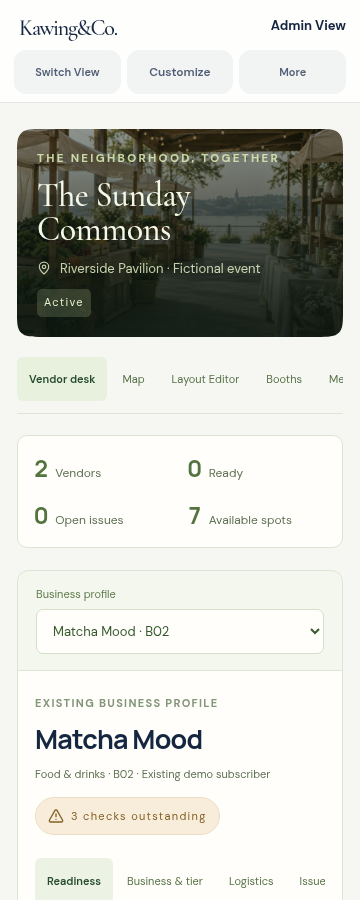
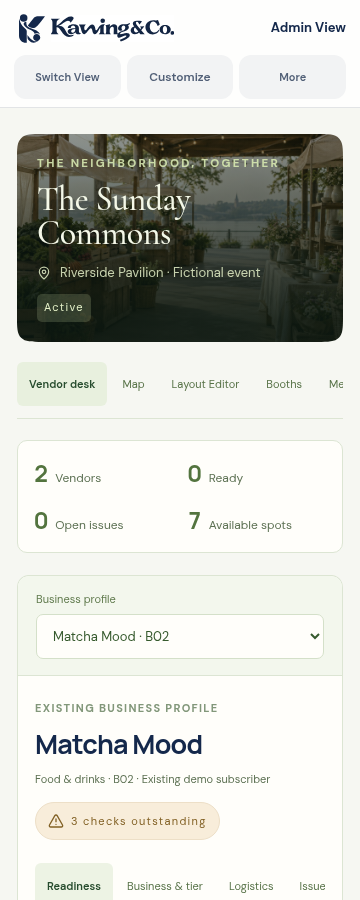
Integrate supplied Kawing identity and responsive microinteractions

diff --git a/src/ds/mobile-demo.css b/src/ds/mobile-demo.css
@@ -6,10 +6,10 @@ html body .entry-mobile-first .spaces-brand { justify-content: space-between; bo
 .demo-introduction h1 { font: 500 clamp(48px, 6vw, 80px)/1.02 var(--k-serif); letter-spacing: -.03em; color: var(--k-ink); margin: 20px 0; text-wrap: balance; }
 .demo-introduction h1 em { font-weight: 400; color: #365579; }
 .demo-introduction-copy > p { color: var(--k-ink-2); font-size: 17px; line-height: 1.7; max-width: 470px; }
-.demo-start { min-height: 52px; display: inline-flex; align-items: center; justify-content: center; gap: 22px; border-radius: 14px; padding: 14px 22px; background: #152641; color: white; font-weight: 600; font-size: 15px; margin: 16px 0; border: 1px solid #152641; }
+.demo-start { min-height: 52px; display: inline-flex; align-items: center; justify-content: center; gap: 22px; border-radius: 14px; padding: 14px 22px; background: #14284b; color: white; font-weight: 600; font-size: 15px; margin: 16px 0; border: 1px solid #14284b; }
 .demo-start:hover { background: #2f4868; }
 .demo-introduction-copy > small { display: block; font-size: 12px; line-height: 1.7; color: var(--k-ink-2); }
-.demo-purpose-card { padding: clamp(24px, 3vw, 40px); background: #152641; color: #fff; border-radius: 24px; }
+.demo-purpose-card { padding: clamp(24px, 3vw, 40px); background: #14284b; color: #fff; border-radius: 24px; }
 .demo-purpose-card .demo-eyebrow { color: #bdcce0; }
 .demo-purpose-card h2 { font: 500 42px/1.05 var(--k-serif); margin: 18px 0 28px; }
 .demo-purpose-card ol { list-style: none; padding: 0; margin: 0; display: grid; gap: 22px; }
@@ -86,12 +86,67 @@ html body .view-picker .back-preview { display: inline-flex; }
   html body .space-session-header nav > button,
   html body .space-session-header nav > .session-disclosure > button { width: 100%; min-height: 44px; justify-content: center; }
 }
-html body .view-picker .space-role-icon { color: #152641; background: #edf1f7; }
-html body .view-picker .space-enter { color: #152641; }
+html body .view-picker .space-role-icon { color: #14284b; background: #edf1f7; }
+html body .view-picker .space-enter { color: #14284b; }
 .demo-purpose-card > .company-wordmark { display: block; color: white; font: 700 38px/1.2 var(--k-serif); letter-spacing: -1px; margin-bottom: 18px; }
 /* Kawing & Co. company surfaces; merchant storefront themes stay in their own scope. */
 html body .entry-mobile-first { background: #fff; }
 body:has(.entry-mobile-first) { background: #fff; }
-html body .sidebar nav button.active::before { background: #152641; }
+html body .sidebar nav button.active::before { background: #14284b; }
 html body .studio-heading .button.primary,
-html body .studio-save-bar .button.primary { background: #152641; border-color: #152641; color: #fff; }
+html body .studio-save-bar .button.primary { background: #14284b; border-color: #14284b; color: #fff; }
+
+/* Supplied vector identity: one untouched source for the wordmark and stacked mark. */
+html body .spaces-brand > a > .company-wordmark.company-mark-compact,
+html body .space-wordmark > .company-wordmark.company-mark-compact,
+html body .sidebar .logo > .company-wordmark.company-mark-compact {
+  display: inline-flex; align-items: center; gap: 8px; width: 176px; height: 36px;
+  color: #14284b; padding: 0; line-height: 1; vertical-align: middle;
+}
+.company-wordmark .brand-name { position: absolute; width: 1px; height: 1px; padding: 0; margin: -1px; overflow: hidden; clip-path: inset(50%); white-space: nowrap; }
+.company-wordmark .brand-symbol { display: block; width: 26px; height: 31px; flex: none; background: currentColor; -webkit-mask: url('/branding/kawing-symbol.svg') center / contain no-repeat; mask: url('/branding/kawing-symbol.svg') center / contain no-repeat; }
+.company-wordmark .brand-wordmark { display: block; width: 142px; height: 31px; flex: none; background: currentColor; -webkit-mask: url('/branding/kawing-stacked.svg') center bottom / 100% auto no-repeat; mask: url('/branding/kawing-stacked.svg') center bottom / 100% auto no-repeat; }
+html body .demo-purpose-card > .company-wordmark.company-mark-stacked { display: block; width: 176px; height: 174px; color: white; margin: 0 0 24px; }
+.company-wordmark .brand-stacked { display: block; width: 100%; height: 100%; background: currentColor; -webkit-mask: url('/branding/kawing-stacked.svg') center / contain no-repeat; mask: url('/branding/kawing-stacked.svg') center / contain no-repeat; }
+@media (max-width: 380px) {
+  html body .space-wordmark > .company-wordmark.company-mark-compact { width: 155px; gap: 6px; }
+  .space-wordmark .brand-wordmark { width: 123px; height: 27px; }
+}
+/* Native SVG wordmark variants, clipped only in layout; original files are untouched. */
+.company-wordmark .brand-wordmark { position: relative; overflow: hidden; background: transparent; -webkit-mask: none; mask: none; }
+.company-wordmark .wordmark-art { display: block; position: absolute; top: 50%; max-width: none; height: auto; pointer-events: none; user-select: none; }
+.company-wordmark .art-depth { opacity: 0; transition: opacity 220ms ease; }
+a:is(:hover, :focus-visible) .company-wordmark .art-depth { opacity: 1; }
+.company-mark-compact .brand-wordmark { mix-blend-mode: multiply; }
+html body .company-wordmark.company-mark-reversed { display: inline-block; width: 158px; height: 33px; margin: 0; vertical-align: middle; }
+.company-mark-reversed .brand-reversed { width: 100%; height: 100%; }
+html body .entry-mobile-first .spaces-footer { background: #0f1d37; color: #d0dbea; padding: 20px 24px; border: 0; border-radius: 18px; gap: 20px; align-items: center; }
+html body .entry-mobile-first .spaces-footer > .company-wordmark { display: inline-block; }
+/* Motion is reactive: one hover/focus/press response, no idle logo loop. */
+.company-wordmark { transform: translate3d(var(--logo-x, 0px), var(--logo-y, 0px), 0); transition: transform 260ms cubic-bezier(.22,.8,.25,1); }
+.company-wordmark .brand-symbol { transform-origin: 50% 70%; transition: transform 260ms cubic-bezier(.22,.8,.25,1); }
+a:is(:hover, :focus-visible) .brand-symbol { transform: rotate(-4deg) translateY(-1px); }
+a:active .company-wordmark { transform: scale(.97); }
+html body .entry-mobile-first .k-tactile { background-image: radial-gradient(150px circle at var(--lx, 50%) var(--ly, 50%), rgba(255,255,255,calc(.32 * var(--lg,0))), transparent 65%); }
+.demo-start > svg { transition: transform 220ms ease; }
+.demo-start:is(:hover, :focus-visible) > svg { transform: translateX(4px); }
+:where(button, a.button) { touch-action: manipulation; }
+html body .entry-mobile-first .space-role-cards > button,
+html body .entry-mobile-first .business-picker button,
+html body .space-session-header nav button { transition: background-color 180ms ease, border-color 180ms ease, color 180ms ease, transform 180ms cubic-bezier(.22,.8,.25,1), box-shadow 180ms ease; }
+html body .entry-mobile-first .space-role-cards > button:active,
+html body .entry-mobile-first .business-picker button:active,
+html body .space-session-header nav button:active { transform: scale(.98); }
+html body .entry-mobile-first .space-role-cards > button:is(:hover, :focus-visible) .space-enter > svg { transform: translateX(4px); }
+.space-enter > svg { transition: transform 200ms ease; }
+:where(button[role="tab"], button[role="radio"]) { transition: background-color 180ms ease, color 180ms ease, box-shadow 180ms ease; }
+.cx-success, .sf-notice { animation: demo-confirm 240ms cubic-bezier(.22,.8,.25,1) both; }
+@keyframes demo-confirm { from { opacity: 0; transform: translateY(6px); } to { opacity: 1; transform: translateY(0); } }
+@media (max-width: 750px) { html body .entry-mobile-first .spaces-footer > .company-wordmark { margin-top: 16px; } }
+@media (prefers-reduced-motion: reduce) {
+  .company-wordmark, .company-wordmark .brand-symbol, a:active .company-wordmark,
+  .demo-start:is(:hover, :focus-visible) > svg,
+  html body .entry-mobile-first .space-role-cards > button:is(:hover, :focus-visible) .space-enter > svg { transform: none !important; transition: none !important; }
+  .company-wordmark .art-depth { transition: none; }
+  .cx-success, .sf-notice { animation: none; }
+}

diff --git a/tests/branding-motion.spec.js b/tests/branding-motion.spec.js
@@ -1,0 +1,56 @@
+import {test, expect} from '@playwright/test';
+
+test('supplied brand SVGs are served and the compact wordmark loads as artwork', async ({page}) => {
+  for(const asset of ['stacked','symbol','wordmark-flat','wordmark-depth','wordmark-reversed']) {
+    const r=await page.request.get('/branding/kawing-'+asset+'.svg');
+    expect(r.ok()).toBe(true);
+    expect(await r.text()).toContain('<svg');
+  }
+  await page.goto('/');
+  const logo=page.locator('.spaces-brand a');
+  await expect(logo.getByRole('img',{name:'Kawing & Co.'})).toBeVisible();
+  const art=logo.locator('img.art-flat');
+  await expect.poll(()=>art.evaluate(e=>e.complete && e.naturalWidth>0)).toBe(true);
+  expect(await page.locator('link[rel=icon]').getAttribute('href')).toBe('/branding/kawing-symbol.svg');
+  await expect(page.locator('.brand-stacked')).toBeVisible();
+  await expect(page.locator('.company-mark-reversed img')).toHaveAttribute('src','/branding/kawing-wordmark-reversed.svg');
+});
+
+test('logo hover reveals the supplied depth variant and keyboard navigation still works', async ({page}) => {
+  await page.goto('/');
+  const logo=page.locator('.spaces-brand a');
+  await logo.hover();
+  await expect.poll(()=>logo.locator('.art-depth').evaluate(e=>Number(getComputedStyle(e).opacity))).toBe(1);
+  await page.mouse.move(0,0);
+  await expect.poll(()=>logo.locator('.art-depth').evaluate(e=>Number(getComputedStyle(e).opacity))).toBe(0);
+  await page.goto('/?scenario=standard');
+  await page.locator('.spaces-brand a').focus();
+  await page.keyboard.press('Enter');
+  await expect(page.locator('.demo-introduction')).toBeVisible();
+});
+
+test('button press gives immediate feedback and keeps the experience action functional', async ({page}) => {
+  await page.goto('/');
+  const button=page.getByRole('button',{name:'Choose your experience',exact:true});
+  const box=await button.boundingBox();
+  await page.mouse.move(box.x+box.width/2,box.y+box.height/2);
+  await page.mouse.down();
+  await expect(button).toHaveClass(/k-pressed/);
+  await page.mouse.up();
+  await expect(button).not.toHaveClass(/k-pressed/);
+  await expect(page.locator('#experience-choices')).toBeFocused();
+  await page.getByRole('button',{name:/Explore a business/}).click();
+  await expect(page.getByRole('heading',{name:'Choose your view.'})).toBeVisible();
+});
+
+test('reduced motion disables logo movement and confirmations while actions remain usable', async ({page}) => {
+  await page.emulateMedia({reducedMotion:'reduce'});
+  await page.goto('/');
+  const logo=page.locator('.spaces-brand a');
+  await logo.hover();
+  expect(await logo.locator('.company-wordmark').evaluate(e=>getComputedStyle(e).transform)).toBe('none');
+  expect(await logo.locator('.brand-symbol').evaluate(e=>getComputedStyle(e).transform)).toBe('none');
+  await page.getByRole('button',{name:'Choose your experience',exact:true}).click();
+  await expect(page.locator('#experience-choices')).toBeFocused();
+  expect(await page.getByRole('button',{name:'Choose your experience',exact:true}).evaluate(e=>getComputedStyle(e).transform)).toBe('none');
+});

diff --git a/src/CompanyWordmark.jsx b/src/CompanyWordmark.jsx
@@ -1,5 +1,35 @@
 import React from "react";
-// Text fallback until the owner's original logo artwork is available as a file.
-export default function CompanyWordmark() {
-  return <span className="company-wordmark">Kawing<span>&amp;Co.</span></span>;
+
+// Display the original SVGs without rewriting their paths or artboards. The crop
+// geometry was measured from the SVG path bounds in the browser's own coordinates.
+const art = {
+  flat: { width: '128.64%', left: '-14.28%', center: '-50.91%' },
+  depth: { width: '107.32%', left: '-4.62%', center: '-48.79%' },
+  reversed: { width: '134.2%', left: '-17.15%', center: '-51.72%' },
+};
+function WordmarkArt({ tone }) {
+  const crop = art[tone];
+  return <img className={'wordmark-art art-' + tone} src={'/branding/kawing-wordmark-' + tone + '.svg'} alt="" draggable="false" style={{width:crop.width, left:crop.left, transform:'translateY(' + crop.center + ')'}} />;
+}
+export default function CompanyWordmark({ variant = "compact" }) {
+  const reset = (e) => {
+    e.currentTarget.style.removeProperty('--logo-x');
+    e.currentTarget.style.removeProperty('--logo-y');
+  };
+  return (
+    <span className={'company-wordmark company-mark-' + variant} role="img" aria-label="Kawing & Co."
+      onPointerMove={(e) => {
+        if (e.pointerType !== 'mouse' || !matchMedia('(pointer:fine)').matches || matchMedia('(prefers-reduced-motion: reduce)').matches) return;
+        const r = e.currentTarget.getBoundingClientRect();
+        e.currentTarget.style.setProperty('--logo-x', ((e.clientX-r.left)/r.width-.5)*2 + 'px');
+        e.currentTarget.style.setProperty('--logo-y', ((e.clientY-r.top)/r.height-.5)*1.5 + 'px');
+      }} onPointerLeave={reset} onPointerCancel={reset}>
+      {variant === 'stacked' ? <span className="brand-stacked" aria-hidden="true" /> : variant === 'reversed' ?
+        <span className="brand-wordmark brand-reversed" aria-hidden="true"><WordmarkArt tone="reversed" /></span> : <>
+          <span className="brand-symbol" aria-hidden="true" />
+          <span className="brand-wordmark" aria-hidden="true"><WordmarkArt tone="flat" /><WordmarkArt tone="depth" /></span>
+        </>}
+      <span className="brand-name">Kawing&amp;Co.</span>
+    </span>
+  );
 }

diff --git a/src/Spaces.jsx b/src/Spaces.jsx
@@ -235,7 +235,7 @@ export default function Spaces({ Workspace }) {
               <span className="demo-eyebrow">THE KAWING &amp; CO. PRODUCT DEMO</span>
               <h1 id="demo-title">Good business.<br /><em>Closer connections.</em></h1>
               <p>See how one customer visit connects a branded menu, an order, the team behind it, and a reason to return.</p>
-              <button className="demo-start" onClick={() => {
+              <button className="demo-start" data-tactile onClick={() => {
                 const heading = document.getElementById("experience-choices");
                 heading?.scrollIntoView({ behavior: matchMedia("(prefers-reduced-motion: reduce)").matches ? "instant" : "smooth", block: "start" });
                 heading?.focus({ preventScroll: true });
@@ -243,7 +243,7 @@ export default function Spaces({ Workspace }) {
               <small>Interactive proposal · Fictional businesses · No real payments</small>
             </div>
             <div className="demo-purpose-card">
-              <CompanyWordmark /><span className="demo-eyebrow">MORE THAN A DIGITAL MENU</span>
+              <CompanyWordmark variant="stacked" /><span className="demo-eyebrow">MORE THAN A DIGITAL MENU</span>
               <h2>One visit.<br />Everyone connected.</h2>
               <ol>
                 <li><span>01</span><div><b>Arrive &amp; order</b><p>A guest explores the menu, places an order, and follows its progress.</p></div></li>
@@ -379,7 +379,7 @@ export default function Spaces({ Workspace }) {
             <span className="online-dot" /> Interactive demo · Fictional
             businesses · Browser-local data
           </span>
-          <span>Good business, connected.</span>
+          <CompanyWordmark variant="reversed" />
         </footer>
       </main>
     </>

diff --git a/src/ds/shell.css b/src/ds/shell.css
@@ -136,7 +136,7 @@ html body .space-session-header .session-context { flex-wrap: nowrap; white-spac
 @media (max-width: 1500px) { html body .space-session-header .session-context .session-tier, html body .space-session-header .session-context .session-tier + span { display: none; } }
 @media (max-width: 1500px) { html body .space-session-header .command-trigger kbd { display: none; } }
 
-/* Company-name fallback; replace with the supplied artwork once originals arrive. */
+/* Company mark frame; the SVG renderer in mobile-demo.css supplies final sizing. */
 html body .spaces-brand > a > .company-wordmark,
 html body .space-wordmark > .company-wordmark,
 html body .sidebar .logo > .company-wordmark {

diff --git a/index.html b/index.html
@@ -6,8 +6,8 @@
       name="viewport"
       content="width=device-width, initial-scale=1.0, viewport-fit=cover"
     />
-    <link rel="icon" type="image/svg+xml" href="/images/market-mark.svg" />
-    <meta name="theme-color" content="#152641" />
+    <link rel="icon" type="image/svg+xml" href="/branding/kawing-symbol.svg" />
+    <meta name="theme-color" content="#14284b" />
     <meta
       name="description"
       content="Kawing — a connected workspace for your neighborhood restaurant. Interactive concept demo."

diff --git a/src/ds/tokens.css b/src/ds/tokens.css
@@ -9,9 +9,9 @@
   /* colour */
   --k-paper: #ffffff;
   --k-surface: #ffffff;
-  --k-ink: #152641;
+  --k-ink: #14284b;
   --k-ink-2: #526077;          /* muted text on the company surface */
-  --k-forest: #152641;
+  --k-forest: #14284b;
   --k-forest-2: #304d72;
   --k-sage: #edf1f7;
   --k-sage-2: #dce4ef;

diff --git a/docs/MOBILE_DEMO_VERIFICATION.md b/docs/MOBILE_DEMO_VERIFICATION.md
@@ -13,7 +13,7 @@ removal while preserving undo and existing connected operations.
 ## Checks
 
 - Production build passed. Vite retains its pre-existing >500KB main-chunk advisory.
-- Full 94-test Playwright regression: 94 passed in 5.3 minutes.
+- Full 94-test Playwright regression before final brand-asset integration: 94 passed in 5.3 minutes.
 - Focused mobile/merchant run: 14 passed before adding separate tablet coverage.
 - Chromium compiled-preview sweep: 24 route/width combinations (360/390/768/1440px),
   no page or console errors, no horizontal page overflow, no command trigger/dialog,
@@ -34,10 +34,20 @@ successful build and focused run; no broken intermediate build was published.
 
 Chromium desktop/touch-sized checks are not physical iOS/Android or screen-reader
 certification. All operational records remain fictional and browser-local. The
-company-name text fallback is not the supplied original logo; exact PNG/SVG originals
-are still pending. Merchant theme identities remain independent of company chrome.
+original supplied SVGs are now used directly (no text fallback); five source files are preserved byte-for-byte. Merchant theme identities remain independent of company chrome.
 
 Publish only the exact local commit pushed to the existing Site source repository.
 Retain the public audience. Report actual saved version, commit and deployment result
 in completion; record local release reconciliation in .git/kawing-brand-release.json.
 Rollback: saved Site version 10, with no data migration required.
+
+## Supplied assets and microinteractions
+
+The owner subsequently supplied five original SVG files and requested more responsive
+interaction. Native SVG artwork replaces the company-name fallback. Brand feedback is
+reactive: depth variant on hover/focus, bounded pointer response, small symbol rotation,
+press compression and reset. Buttons, cards and confirmations have subtle functional
+feedback. No idle brand animation, motion engine dependency or payment-state change.
+Reduced-motion preferences disable movement. Four new tests cover asset availability,
+logo/focus behavior, tactile press/action, and reduced motion. Focused final verification
+with logo, mobile/session, merchant and connected-order cases: 36 passed (1.5 minutes). Final build and 24-case compiled-preview sweep passed after SVG/motion integration.

diff --git a/.codex/CURRENT.md b/.codex/CURRENT.md
@@ -18,5 +18,5 @@ keyboard path and back navigation; no horizontal page overflow. Validate product
 build, relevant and full browser regression, compiled mobile/desktop screenshots,
 console, complete diff, existing public Site deployment and served assets.
 
-Latest owner steering: apply Kawing & Co. logo, colors and theme. Company landing and chrome use navy/white; merchant storefront themes remain independent. Exact original logo files remain unavailable: retain honest company-name fallback; do not claim exact artwork is integrated.
-Verification: production build passed; 94 Playwright checks passed (5.3m); compiled-preview 24-case sweep at 360/390/768/1440px had no console errors or page overflow. Six screenshots and docs/MOBILE_DEMO_VERIFICATION.md retained. Rollback: Site version 10 / starting commit above. Next: publish this local commit to the existing public Site; keep GitHub push pending. Reconcile actual release state in .git/kawing-brand-release.json and the Site before retrying publication.
+Latest owner steering: apply Kawing & Co. logo, colors and theme. Company landing and chrome use navy/white; merchant storefront themes remain independent. Owner supplied five original SVGs. Integrate stacked logo, symbol, flat/depth/reversed wordmarks directly; preserve originals. Additional accepted scope: reactive microinteractions for logo, buttons, cards and confirmations; honor reduced motion and preserve transactions.
+Verification: production build passed; 94 Playwright checks passed for the mobile overhaul (5.3m); after actual SVG and motion integration, 36 relevant logo/mobile/session/merchant/order checks passed (1.5m); compiled-preview 24-case sweep at 360/390/768/1440px had no console errors or page overflow. Six screenshots and docs/MOBILE_DEMO_VERIFICATION.md retained. Rollback: Site version 10 / starting commit above. Next: publish this local commit to the existing public Site; keep GitHub push pending. Reconcile actual release state in .git/kawing-brand-release.json and the Site before retrying publication.

diff --git a/docs/ASSETS.md b/docs/ASSETS.md
@@ -41,3 +41,19 @@ dependency; hashes are regenerated with `node scripts/create-image-hashes.mjs`.
 
 3D reference provenance and rights boundaries: [3D_REFERENCE_REVIEW.md](3D_REFERENCE_REVIEW.md).
 No assets or source from the supplied interactive portfolio are redistributed.
+
+
+Company identity (owner supplied, 2026-11-07): the five SVGs in public/branding/
+are preserved byte-for-byte, including their source comments. Stacked mark and
+symbol are alpha-masked in CSS for navy/white display. Flat, depth and reversed
+wordmarks retain their original artboards; CSS clips the display to measured glyph
+bounds. No font substitution, traced replacement, external asset request or generated
+logo is used. The symbol is also the favicon. Source filenames were the supplied
+stacked-logo, symbol-concept-b, blended-wordmark-depth, Flat-single-color-wordmark
+and White-wordmark-on-dark artifacts. SHA-256:
+
[5 lines of base64/hex data omitted]

diff --git a/CHANGELOG.md b/CHANGELOG.md
@@ -1,5 +1,16 @@
 # Changelog
 
+## 2026-11-07 — Supplied vector identity and reactive motion
+
+- Replaced the company-name fallback with the supplied SVG symbol, stacked mark and
+  flat/depth/reversed wordmarks. All five originals are retained byte-for-byte.
+  Native SVG rendering/CSS cropping preserve the artwork; no replacement font or tracing.
+- Added bounded logo response, depth artwork on hover/focus, tactile entry action,
+  press feedback on cards/controls, and short confirmation transitions. No idle loop;
+  reduced motion removes movement. Company navy/white and merchant themes stay separate.
+- Added four asset/motion checks. Final focused set: 36 passed; full mobile overhaul
+  baseline: 94 passed. Compiled preview 24-case sweep passed; screenshots updated.
+
 ## 2026-11-07 — Mobile demo journey
 
 - Added a branded proposal introduction explaining customer, merchant and admin

diff --git a/docs/MOBILE_DEMO_GUIDE.md b/docs/MOBILE_DEMO_GUIDE.md
@@ -33,8 +33,9 @@ deep links, guest ordering and Studio previews remain available.
 - Merchant identities are independent of the navy/white company presentation.
 - Reduced motion keeps the same content and navigation without animated transitions.
 
-Company branding currently uses the supplied palette and a text-name fallback. Exact
-logo/monogram files remain pending; the fallback is not the supplied logo artwork.
+Company branding uses the original supplied SVG stacked logo, symbol and wordmark
+variants. Logo links react to hover/focus/press; primary buttons retain tactile
+feedback, with no ambient logo loop. Reduced motion removes movement.
 
 ## Verification
 
